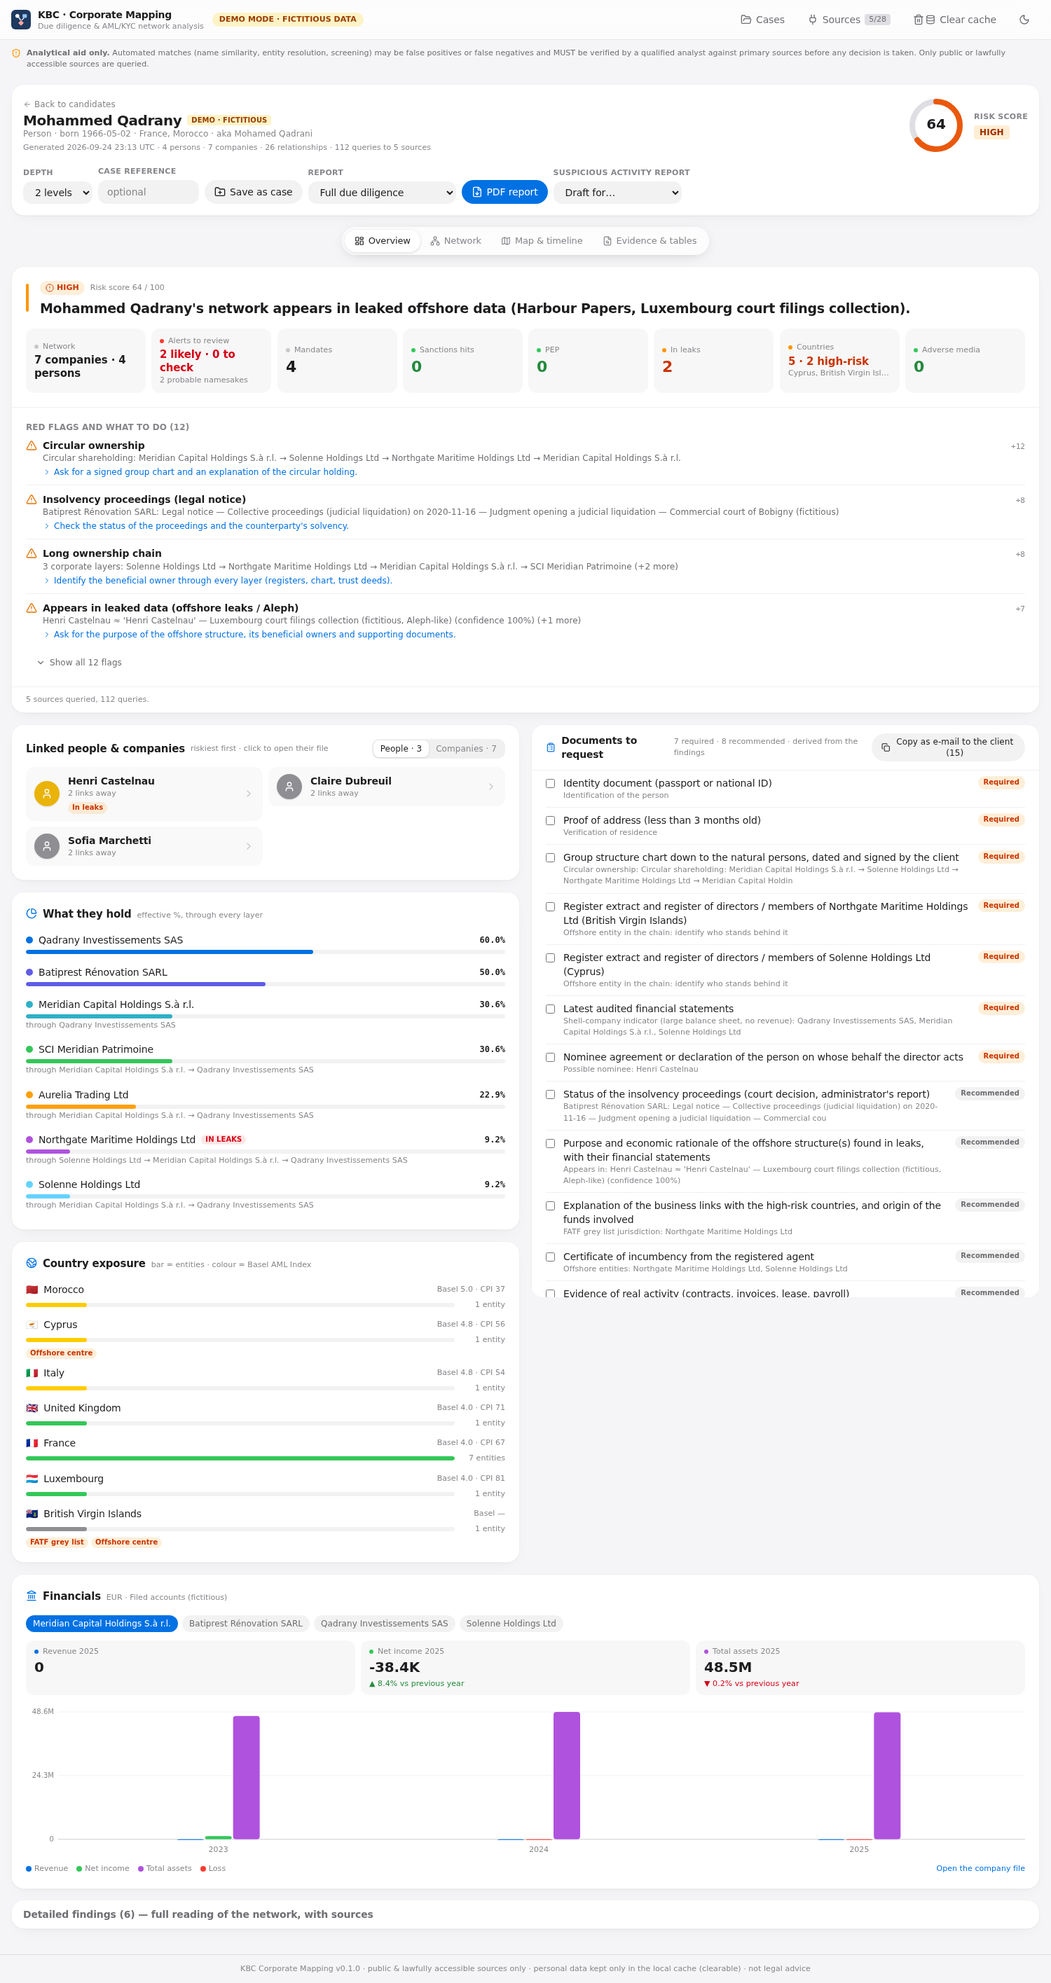
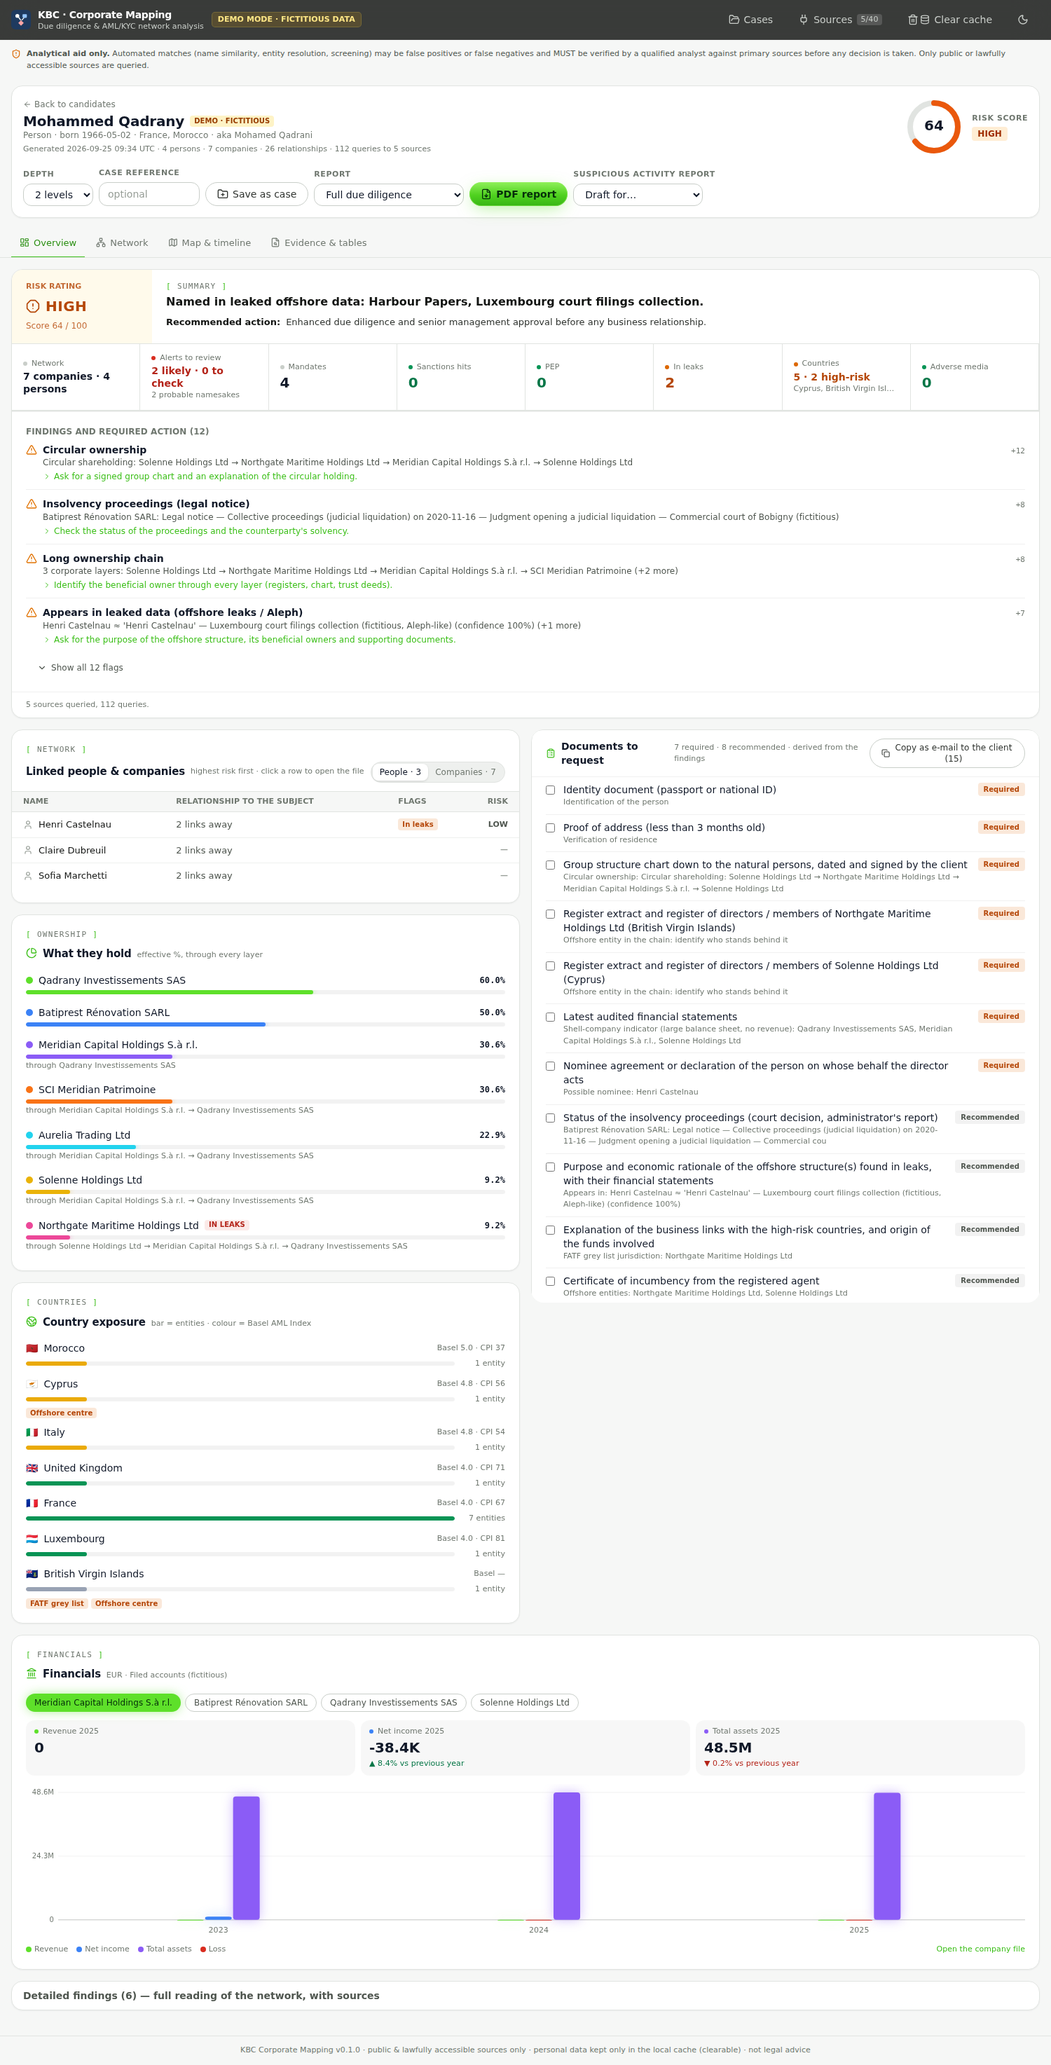
Dark product style: near-black canvas with a green glow, neon-green accent, glowing pill buttons, bold hero with feature chips, bracketed section tags, colourful glowing charts; dark by default, light mode kept
Claude-Session: https://claude.ai/code/session_014jXANiiKZexeLfERdFdnxj

diff --git a/frontend/src/index.css b/frontend/src/index.css
@@ -3,37 +3,38 @@
 @custom-variant dark (&:where(.dark, .dark *));
 
 /* ---------------------------------------------------------------------------
-   Professional compliance-tool foundations: sober slate greys, a navy accent,
-   muted risk colours (red / amber / green only where risk is shown), square-ish
-   corners, dense readable tables, restrained motion. Respects the reduced
-   motion / transparency / contrast preferences.
+   Dark product style: near-black canvas with a faint green glow, neon-green
+   accent with soft light, pill buttons, bold tight headlines, bracketed section
+   tags, glowing charts. Risk colours stay red / amber / green for meaning.
+   Light mode remains available (theme toggle). Respects reduced motion /
+   transparency / contrast preferences.
    --------------------------------------------------------------------------- */
 @theme {
   --font-sans: "Inter", -apple-system, BlinkMacSystemFont, "Segoe UI", system-ui, Roboto, "Helvetica Neue", sans-serif;
-  --font-mono: ui-monospace, "SF Mono", SFMono-Regular, Menlo, Consolas, monospace;
+  --font-mono: "JetBrains Mono", ui-monospace, "SF Mono", SFMono-Regular, Menlo, Consolas, monospace;
 
-  /* Cool slate greys (light: #f5f7fa canvas, #101828 text · dark: #0b1220 canvas) */
-  --color-slate-50: #f5f7fa;
-  --color-slate-100: #eef1f5;
-  --color-slate-200: #e1e6ed;
-  --color-slate-300: #cbd3de;
-  --color-slate-400: #98a2b3;
-  --color-slate-500: #667085;
-  --color-slate-600: #475467;
-  --color-slate-700: #344054;
-  --color-slate-800: #1d2939;
-  --color-slate-900: #121a2a;
-  --color-slate-950: #0b1220;
+  /* Neutrals: light greys for light mode, graphite for dark mode */
+  --color-slate-50: #f6f7f6;
+  --color-slate-100: #eef0ee;
+  --color-slate-200: #e1e4e1;
+  --color-slate-300: #c9cec9;
+  --color-slate-400: #979e97;
+  --color-slate-500: #6f776f;
+  --color-slate-600: #4f564f;
+  --color-slate-700: #2f332f;
+  --color-slate-800: #1c1f1c;
+  --color-slate-900: #131513;
+  --color-slate-950: #0a0b0a;
 
-  /* Navy accent */
-  --color-brand-50: #eef3f9;
-  --color-brand-100: #dbe6f2;
-  --color-brand-300: #8fb0d6;
-  --color-brand-500: #2f6aa8;
-  --color-brand-600: #1d4a7a;
-  --color-brand-700: #12355b;
+  /* Neon green accent */
+  --color-brand-50: #effee6;
+  --color-brand-100: #dcfccb;
+  --color-brand-300: #8ff05a;
+  --color-brand-500: #5ee02a;
+  --color-brand-600: #3cbf19;
+  --color-brand-700: #2a8f12;
 
-  --radius-card: 8px;
+  --radius-card: 16px;
   --ease-fluid: cubic-bezier(0.2, 0.7, 0.2, 1);
 }
 
@@ -45,8 +46,14 @@ body,
 html {
   -webkit-text-size-adjust: 100%;
 }
+.dark body {
+  background-image:
+    radial-gradient(1200px 520px at 50% -180px, rgb(94 224 42 / 0.10), transparent 70%),
+    repeating-linear-gradient(135deg, rgb(255 255 255 / 0.018) 0 1px, transparent 1px 9px);
+  background-attachment: fixed;
+}
 body {
-  @apply bg-slate-50 text-[#101828] antialiased dark:bg-slate-950 dark:text-[#e4e7ec];
+  @apply bg-slate-50 text-[#101828] antialiased dark:bg-slate-950 dark:text-[#e8ebe8];
   font-size: 0.875rem; /* 14px — dense, readable body */
   line-height: 1.5;
   letter-spacing: 0;
@@ -75,24 +82,29 @@ h3 {
 
 /* ------------------------------------------------------------ materials */
 @utility material {
-  background: rgb(255 255 255 / 0.94);
-  backdrop-filter: blur(8px);
-  -webkit-backdrop-filter: blur(8px);
+  background: rgb(255 255 255 / 0.85);
+  backdrop-filter: blur(14px) saturate(140%);
+  -webkit-backdrop-filter: blur(14px) saturate(140%);
   :where(.dark) & {
-    background: rgb(11 18 32 / 0.94);
+    background: rgb(10 11 10 / 0.72);
   }
 }
 
 @utility card {
-  @apply border border-slate-200 bg-white dark:border-slate-800 dark:bg-slate-900;
+  @apply border border-slate-200 bg-white dark:border-white/[0.08] dark:bg-[#111311]/90;
   border-radius: var(--radius-card);
   box-shadow: 0 1px 2px rgb(16 24 40 / 0.05);
+  :where(.dark) & {
+    box-shadow:
+      0 1px 0 rgb(255 255 255 / 0.04) inset,
+      0 20px 40px -24px rgb(0 0 0 / 0.8);
+  }
   animation: fade 200ms ease-out both;
 }
 
 /* ------------------------------------------------------------ controls */
 @utility btn {
-  @apply inline-flex items-center gap-1.5 rounded-md px-3 py-1.5 text-sm font-medium select-none disabled:cursor-not-allowed disabled:opacity-40;
+  @apply inline-flex items-center gap-1.5 rounded-full px-4 py-1.5 text-sm font-medium select-none disabled:cursor-not-allowed disabled:opacity-40;
   transition:
     transform 100ms ease-out,
     background-color 160ms ease,
@@ -104,23 +116,32 @@ h3 {
   }
 }
 @utility btn-primary {
-  @apply btn bg-brand-700 text-white shadow-sm hover:bg-brand-600 dark:bg-brand-500 dark:hover:bg-brand-600;
+  @apply btn font-semibold text-[#052e0a];
+  background: linear-gradient(180deg, #8ff05a 0%, #4fd11f 55%, #37b515 100%);
+  box-shadow:
+    0 0 0 1px rgb(143 240 90 / 0.55) inset,
+    0 6px 24px -6px rgb(94 224 42 / 0.55);
+  &:hover:not(:disabled) {
+    box-shadow:
+      0 0 0 1px rgb(143 240 90 / 0.7) inset,
+      0 8px 32px -6px rgb(94 224 42 / 0.75);
+  }
 }
 @utility btn-ghost {
   @apply btn text-slate-600 hover:bg-black/[0.05] dark:text-slate-300 dark:hover:bg-white/[0.08];
 }
 @utility btn-outline {
-  @apply btn border border-slate-300 bg-white text-slate-700 shadow-sm hover:bg-slate-50 dark:border-slate-700 dark:bg-slate-900 dark:text-slate-200 dark:hover:bg-slate-800;
+  @apply btn border border-slate-300 bg-white text-slate-700 hover:bg-slate-50 dark:border-white/20 dark:bg-transparent dark:text-slate-100 dark:hover:border-white/35 dark:hover:bg-white/[0.04];
 }
 @utility input {
-  @apply rounded-md border border-slate-300 bg-white px-3 py-2 text-sm outline-none shadow-sm placeholder:text-slate-400 dark:border-slate-700 dark:bg-slate-900;
+  @apply rounded-xl border border-slate-300 bg-white px-3 py-2 text-sm outline-none placeholder:text-slate-400 dark:border-white/10 dark:bg-white/[0.04];
   transition:
     box-shadow 160ms ease,
     background-color 160ms ease;
   &:focus {
     @apply bg-white dark:bg-slate-900;
-    box-shadow: 0 0 0 3px rgb(29 74 122 / 0.18);
-    border-color: rgb(29 74 122 / 0.7);
+    box-shadow: 0 0 0 3px rgb(94 224 42 / 0.2);
+    border-color: rgb(94 224 42 / 0.7);
   }
 }
 @utility label {
@@ -129,7 +150,33 @@ h3 {
 
 /* Segmented control (Ownership chart / Network view…) */
 @utility segmented {
-  @apply inline-flex rounded-md border border-slate-200 bg-slate-100 p-0.5 dark:border-slate-700 dark:bg-slate-800;
+  @apply inline-flex rounded-full border border-slate-200 bg-slate-100 p-0.5 dark:border-white/10 dark:bg-white/[0.04];
+}
+
+/* Bracketed section tag, e.g. [ OVERVIEW ] */
+@utility tag {
+  @apply font-mono text-[11px] tracking-[0.12em] text-slate-500 uppercase dark:text-slate-400;
+  &::before {
+    content: "[ ";
+    @apply text-brand-600 dark:text-brand-500;
+  }
+  &::after {
+    content: " ]";
+    @apply text-brand-600 dark:text-brand-500;
+  }
+}
+/* Feature chip: outlined pill with an icon */
+@utility chip {
+  @apply inline-flex items-center gap-2 rounded-full border border-slate-300 px-3.5 py-1.5 text-[13px] font-medium text-slate-700 dark:border-white/15 dark:bg-white/[0.02] dark:text-slate-100;
+}
+/* Big product headline */
+@utility display {
+  @apply font-bold tracking-[-0.045em] text-slate-900 dark:text-[#f2f4f2];
+  line-height: 0.98;
+}
+.text-glow {
+  color: #4fd11f;
+  text-shadow: 0 0 28px rgb(94 224 42 / 0.35);
 }
 
 /* ------------------------------------------------------------ motion */

diff --git a/frontend/src/components/Infographics.tsx b/frontend/src/components/Infographics.tsx
@@ -9,11 +9,12 @@ interface Props {
   onSelect: (id: string) => void;
 }
 
-const PALETTE = ["#1d4a7a", "#2f6aa8", "#5b8bc4", "#8fb0d6", "#0e7c86", "#667085", "#98a2b3", "#344054"];
+const PALETTE = ["#5ee02a", "#3b82f6", "#8b5cf6", "#f97316", "#22d3ee", "#eab308", "#ec4899", "#94a3b8"];
 
-function Card({ icon: Icon, title, hint, children, className = "" }: { icon: typeof Globe2; title: string; hint?: string; children: React.ReactNode; className?: string }) {
+function Card({ icon: Icon, title, hint, tag, children, className = "" }: { icon: typeof Globe2; title: string; hint?: string; tag?: string; children: React.ReactNode; className?: string }) {
   return (
     <section className={`card p-5 ${className}`}>
+      {tag && <div className="tag mb-2">{tag}</div>}
       <div className="mb-4 flex items-baseline gap-2">
         <Icon className="h-4 w-4 translate-y-0.5 text-brand-600" />
         <h2 className="text-[15px] font-semibold">{title}</h2>
@@ -47,7 +48,11 @@ function Donut({ slices, center, sub }: { slices: { pct: number; color: string; 
             strokeDasharray={`${len} ${c}`}
             strokeDashoffset={-offset}
             transform="rotate(-90 70 70)"
-            style={{ transition: "stroke-dasharray 900ms var(--ease-fluid)", animation: `fade 500ms ${i * 90}ms both` }}
+            style={{
+              transition: "stroke-dasharray 900ms var(--ease-fluid)",
+              animation: `fade 500ms ${i * 90}ms both`,
+              filter: `drop-shadow(0 0 6px ${s.color}88)`,
+            }}
           />
         );
         offset += len;
@@ -72,7 +77,7 @@ export function OwnershipChart({ investigation: inv, onSelect }: Props) {
   const color = (i: number, flags: string[]) => (flags.includes("sanctioned") ? "#d92d20" : PALETTE[i % PALETTE.length]);
 
   return (
-    <Card icon={PieChart} title={company ? "Who owns it" : "What they hold"} hint="effective %, through every layer">
+    <Card icon={PieChart} tag="Ownership" title={company ? "Who owns it" : "What they hold"} hint="effective %, through every layer">
       {owners.length === 0 ? (
         <p className="text-sm text-slate-500">
           {company
@@ -103,7 +108,7 @@ export function OwnershipChart({ investigation: inv, onSelect }: Props) {
                     <span className="ml-auto font-mono text-xs font-semibold tabular-nums">{o.pct.toFixed(o.pct < 1 ? 2 : 1)}%</span>
                   </div>
                   <div className="mt-1 h-1.5 overflow-hidden rounded-full bg-black/[0.05] dark:bg-white/[0.08]">
-                    <div className="bar-x h-full rounded-full" style={{ width: `${Math.min(100, o.pct)}%`, background: color(i, o.flags), ["--i" as string]: i }} />
+                    <div className="bar-x h-full rounded-full" style={{ width: `${Math.min(100, o.pct)}%`, background: color(i, o.flags), boxShadow: `0 0 10px ${color(i, o.flags)}88`, ["--i" as string]: i }} />
                   </div>
                   {o.path.length > 2 && (
                     <div className="mt-0.5 truncate text-[11px] text-slate-500">
@@ -127,9 +132,9 @@ export function OwnershipChart({ investigation: inv, onSelect }: Props) {
 /* ------------------------------------------------------------ financials */
 
 const METRICS = [
-  { key: "revenue", label: "Revenue", color: "#1d4a7a" },
-  { key: "net_income", label: "Net income", color: "#0e7c86" },
-  { key: "total_assets", label: "Total assets", color: "#98a2b3" },
+  { key: "revenue", label: "Revenue", color: "#5ee02a" },
+  { key: "net_income", label: "Net income", color: "#3b82f6" },
+  { key: "total_assets", label: "Total assets", color: "#8b5cf6" },
 ] as const;
 
 export function FinancialsChart({ investigation: inv, onSelect }: Props) {
@@ -149,7 +154,7 @@ export function FinancialsChart({ investigation: inv, onSelect }: Props) {
 
   if (!current) {
     return (
-      <Card icon={Landmark} title="Financials">
+      <Card icon={Landmark} tag="Financials" title="Financials">
         <p className="text-sm text-slate-500">
           No published accounts in the sources queried — request the latest audited financial statements (small companies may legally opt out of
           publication).
@@ -182,15 +187,15 @@ export function FinancialsChart({ investigation: inv, onSelect }: Props) {
   };
 
   return (
-    <Card icon={Landmark} title="Financials" hint={`${currency} · ${String(years[0]?.source ?? "")}`} >
+    <Card icon={Landmark} tag="Financials" title="Financials" hint={`${currency} · ${String(years[0]?.source ?? "")}`} >
       {byEntity.length > 1 && (
         <div className="mb-3 flex flex-wrap gap-1.5">
           {byEntity.map(([id, r]) => (
             <button
               key={id}
               onClick={() => setPick(id)}
-              className={`rounded px-2.5 py-1 text-xs font-medium transition ${
-                id === entityId ? "bg-brand-600 text-white" : "bg-black/[0.05] text-slate-600 hover:bg-black/[0.08] dark:bg-white/[0.08] dark:text-slate-300"
+              className={`rounded-full px-3 py-1 text-xs font-medium transition ${
+                id === entityId ? "bg-brand-500 text-[#052e0a] shadow-[0_0_16px_-2px_rgb(94_224_42/0.6)]" : "border border-slate-300 text-slate-600 hover:border-slate-400 dark:border-white/15 dark:text-slate-300 dark:hover:border-white/30"
               }`}
             >
               {String(r[0].name)}
@@ -234,7 +239,11 @@ export function FinancialsChart({ investigation: inv, onSelect }: Props) {
                   rx={4}
                   fill={neg ? "#d92d20" : m.color}
                   className="bar-y"
-                  style={{ ["--i" as string]: yi * metrics.length + mi, transformOrigin: neg ? "top" : "bottom" }}
+                  style={{
+                    ["--i" as string]: yi * metrics.length + mi,
+                    transformOrigin: neg ? "top" : "bottom",
+                    filter: `drop-shadow(0 0 8px ${neg ? "#ef444466" : m.color + "66"})`,
+                  }}
                 >
                   <title>{`${m.label} ${String(y.year)}: ${v.toLocaleString("en")} ${currency}`}</title>
                 </rect>
@@ -292,7 +301,7 @@ export function CountryExposure({ investigation: inv }: Props) {
   const max = Math.max(...rows.map((r) => Number(r.entities)));
   const sorted = [...rows].sort((a, b) => (toNumber(b.basel_aml_score) ?? 0) - (toNumber(a.basel_aml_score) ?? 0) || Number(b.entities) - Number(a.entities));
   return (
-    <Card icon={Globe2} title="Country exposure" hint="bar = entities · colour = Basel AML Index">
+    <Card icon={Globe2} tag="Countries" title="Country exposure" hint="bar = entities · colour = Basel AML Index">
       <ul className="stagger space-y-2.5">
         {sorted.slice(0, 10).map((r, i) => {
           const score = toNumber(r.basel_aml_score);

diff --git a/frontend/src/App.tsx b/frontend/src/App.tsx
@@ -1,5 +1,5 @@
 import { keepPreviousData, useMutation, useQuery, useQueryClient } from "@tanstack/react-query";
-import { Loader2 } from "lucide-react";
+import { Building2, FileSearch, Loader2, ShieldAlert } from "lucide-react";
 import { useState } from "react";
 import { api, auth, AuthError } from "./api";
 import CaseScreen from "./components/CaseScreen";
@@ -121,13 +121,34 @@ export default function App() {
         {page === "main" && !target && (
           <>
             {!search && (
-              <div className="mx-auto max-w-3xl pt-10 pb-2">
-                <h1 className="text-[26px] font-semibold text-slate-900 dark:text-white">Due diligence search</h1>
-                <p className="mt-1.5 max-w-2xl text-[14px] leading-relaxed text-slate-600 dark:text-slate-400">
-                  Search a person, a company, a registration number or a crypto wallet. Results are cross-checked against
-                  company registers, sanctions and PEP lists, regulators, courts and leak databases, with the source of every
-                  fact.
+              <div className="mx-auto max-w-4xl pt-14 pb-6 text-center">
+                <div className="chip mx-auto mb-7">
+                  <span className="h-1.5 w-1.5 rounded-full bg-brand-500 shadow-[0_0_10px_2px_rgb(94_224_42/0.7)]" />
+                  {meta.data?.demo_mode ? "Demo + live public sources" : "Live public sources"} · 40 connectors
+                </div>
+                <h1 className="display text-[clamp(2.6rem,6.5vw,4.6rem)]">
+                  Know who is behind
+                  <br />
+                  any company, <span className="text-glow">now.</span>
+                </h1>
+                <p className="mx-auto mt-5 max-w-2xl text-[16px] leading-relaxed text-slate-600 dark:text-slate-400">
+                  Registers, sanctions, PEPs, leaks, regulators and courts in one search.
+                  <br className="hidden sm:block" /> Owners, red flags and the documents to request, with the source of every fact.
                 </p>
+                <div className="mt-7 flex flex-wrap justify-center gap-2.5">
+                  {[
+                    [Building2, "Registers in 10+ countries"],
+                    [ShieldAlert, "32 sanctions & watch lists"],
+                    [FileSearch, "Leaks, courts & regulators"],
+                  ].map(([Icon, label]) => {
+                    const I = Icon as typeof Building2;
+                    return (
+                      <span key={label as string} className="chip">
+                        <I className="h-4 w-4 text-brand-600 dark:text-brand-500" /> {label as string}
+                      </span>
+                    );
+                  })}
+                </div>
               </div>
             )}
             <SearchPanel initial={search ?? DEFAULT_SEARCH} demo={!!meta.data?.demo_mode} live={live} onSearch={setSearch} />

diff --git a/frontend/index.html b/frontend/index.html
@@ -12,13 +12,13 @@
       // Apply the saved/system theme before first paint (no flash).
       try {
         const t = localStorage.getItem("kbc-theme");
-        if (t === "dark" || (!t && matchMedia("(prefers-color-scheme: dark)").matches))
+        if (t !== "light") // dark by default
           document.documentElement.classList.add("dark");
       } catch {}
     </script>
       <link rel="preconnect" href="https://fonts.googleapis.com" />
     <link rel="preconnect" href="https://fonts.gstatic.com" crossorigin />
-    <link href="https://fonts.googleapis.com/css2?family=Inter:wght@400;500;600;700&display=swap" rel="stylesheet" />
+    <link href="https://fonts.googleapis.com/css2?family=Inter:wght@400;500;600;700;800&family=JetBrains+Mono:wght@400;500&display=swap" rel="stylesheet" />
   </head>
   <body>
     <div id="root"></div>

diff --git a/frontend/src/components/Header.tsx b/frontend/src/components/Header.tsx
@@ -32,7 +32,7 @@ export default function Header({ meta, theme, onToggleTheme, onHome, onCases, ca
   const live = connectors.data?.some((c) => c.enabled && !c.demo);
 
   return (
-    <header className="sticky top-0 z-30 border-b border-black/30 bg-[#0f2742] text-white [&_.btn-ghost]:text-slate-200 [&_.btn-ghost:hover]:bg-white/10 dark:bg-[#0b1d33]">
+    <header className="sticky top-0 z-30 border-b border-white/[0.06] bg-[#0a0b0a]/80 text-white backdrop-blur-xl [&_.btn-ghost]:text-slate-300 [&_.btn-ghost:hover]:bg-white/[0.06] [&_.btn-ghost:hover]:text-white">
       <div className="mx-auto flex h-14 max-w-[1600px] items-center gap-3 px-4">
         <button onClick={onHome} className="flex items-center gap-2.5" aria-label="Home">
           <img src="/favicon.svg" alt="" className="h-7 w-7" />

diff --git a/frontend/src/components/SearchPanel.tsx b/frontend/src/components/SearchPanel.tsx
@@ -113,7 +113,7 @@ export default function SearchPanel({ initial, demo, live, onSearch, compact }: 
             <button
               key={ex.q}
               type="button"
-              className="rounded-md border border-slate-300 bg-white px-2.5 py-1 transition hover:border-brand-500 hover:text-brand-700 dark:border-slate-700 dark:bg-slate-900 dark:hover:text-brand-300"
+              className="rounded-full border border-slate-300 bg-white px-3 py-1 transition hover:border-brand-500 hover:text-brand-700 dark:border-white/15 dark:bg-white/[0.02] dark:hover:border-brand-500 dark:hover:text-brand-300"
               onClick={() => {
                 const next = { ...p, q: ex.q, type: ex.type };
                 setP(next);

diff --git a/frontend/src/components/BriefCard.tsx b/frontend/src/components/BriefCard.tsx
@@ -61,7 +61,7 @@ export default function BriefCard({ investigation: inv, onSelect, onOpenTab, hid
           <div className="text-[12px] font-medium opacity-80">Score {b.score.toFixed(0)} / 100</div>
         </div>
         <div className="px-5 py-4">
-          <div className="label">Main finding</div>
+          <div className="tag">Summary</div>
           <p className="mt-0.5 text-[16px] leading-snug font-semibold text-slate-900 dark:text-white">{rest.join(" — ")}</p>
           {b.action && (
             <p className="mt-2 flex gap-2 text-[13px] text-slate-700 dark:text-slate-300">

diff --git a/frontend/src/components/LinkedParties.tsx b/frontend/src/components/LinkedParties.tsx
@@ -133,6 +133,7 @@ export default function LinkedParties({ investigation: inv, onSelect }: Props) {
 
   return (
     <section className="card p-5">
+      <div className="tag mb-2">Network</div>
       <div className="mb-3 flex flex-wrap items-center gap-2">
         <h2 className="text-[15px] font-semibold">Linked people & companies</h2>
         <span className="text-[11px] text-slate-500">highest risk first · click a row to open the file</span>
